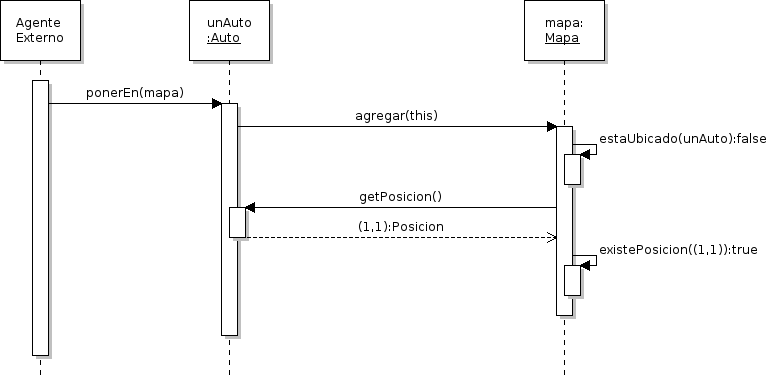
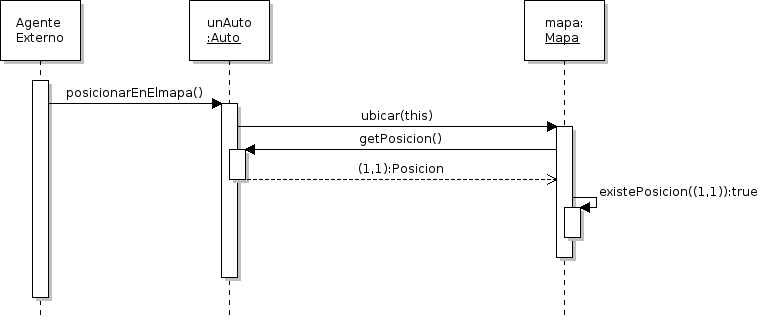
+diagramas re-new y un poco de salsa

Changed region(s): [[0.0, 0.0, 0.9948, 0.9627], [0.6632, 0.0, 0.8139, 0.2174], [0.2412, 0.0, 0.3617, 0.2174]]

diff --git a/src/fiuba/algo3/modelo/Mapa.java b/src/fiuba/algo3/modelo/Mapa.java
@@ -45,7 +45,7 @@ public class Mapa {
 
     public void ubicarPosicionDeLlegada(Posicion laLlegada) throws LaPosicionNoExisteEnElMapaException {
 
-        if ( this.posicionesValidas.contains(laLlegada) ) {
+        if ( this.existe(laLlegada) ) {
 
             this.llegada = laLlegada;
 
@@ -55,7 +55,7 @@ public class Mapa {
 
     public void ubicar(Vehiculo unVehiculo) throws LaPosicionNoExisteEnElMapaException {
 
-        if ( this.posicionesValidas.contains(unVehiculo.getPosicion()) ) {
+        if ( this.existe(unVehiculo.getPosicion()) ) {
 
             this.vehiculo = unVehiculo;
 

diff --git a/src/fiuba/algo3/modelo/Eventos.java b/src/fiuba/algo3/modelo/Eventos.java
@@ -16,7 +16,7 @@ public class Eventos {
      private void actualizarElEstadoDeLaPartida( Partida unaPartida) {
 
         Vehiculo vehiculoAVerificar = unaPartida.getPiloto().getVehiculo();
-        if (vehiculoAVerificar.getPosicion() == Mapa.getMapa().getLlegada()) {
+        if ( vehiculoAVerificar.getPosicion().equals(Mapa.getMapa().getLlegada()) ) {
             unaPartida.finalizar();
         }
 

diff --git a/src/fiuba/algo3/modelo/Pozo.java b/src/fiuba/algo3/modelo/Pozo.java
@@ -15,7 +15,7 @@ public class Pozo extends Obstaculo {
 
         Vehiculo vehiculoDelCandidatoASerAplicar = piloto.getVehiculo();
 
-        if ( vehiculoDelCandidatoASerAplicar.getPosicion() == this.getPosicion() )
+        if ( vehiculoDelCandidatoASerAplicar.getPosicion().equals(this.getPosicion()) )
         {
             piloto.interactuarCon(this);
         }
